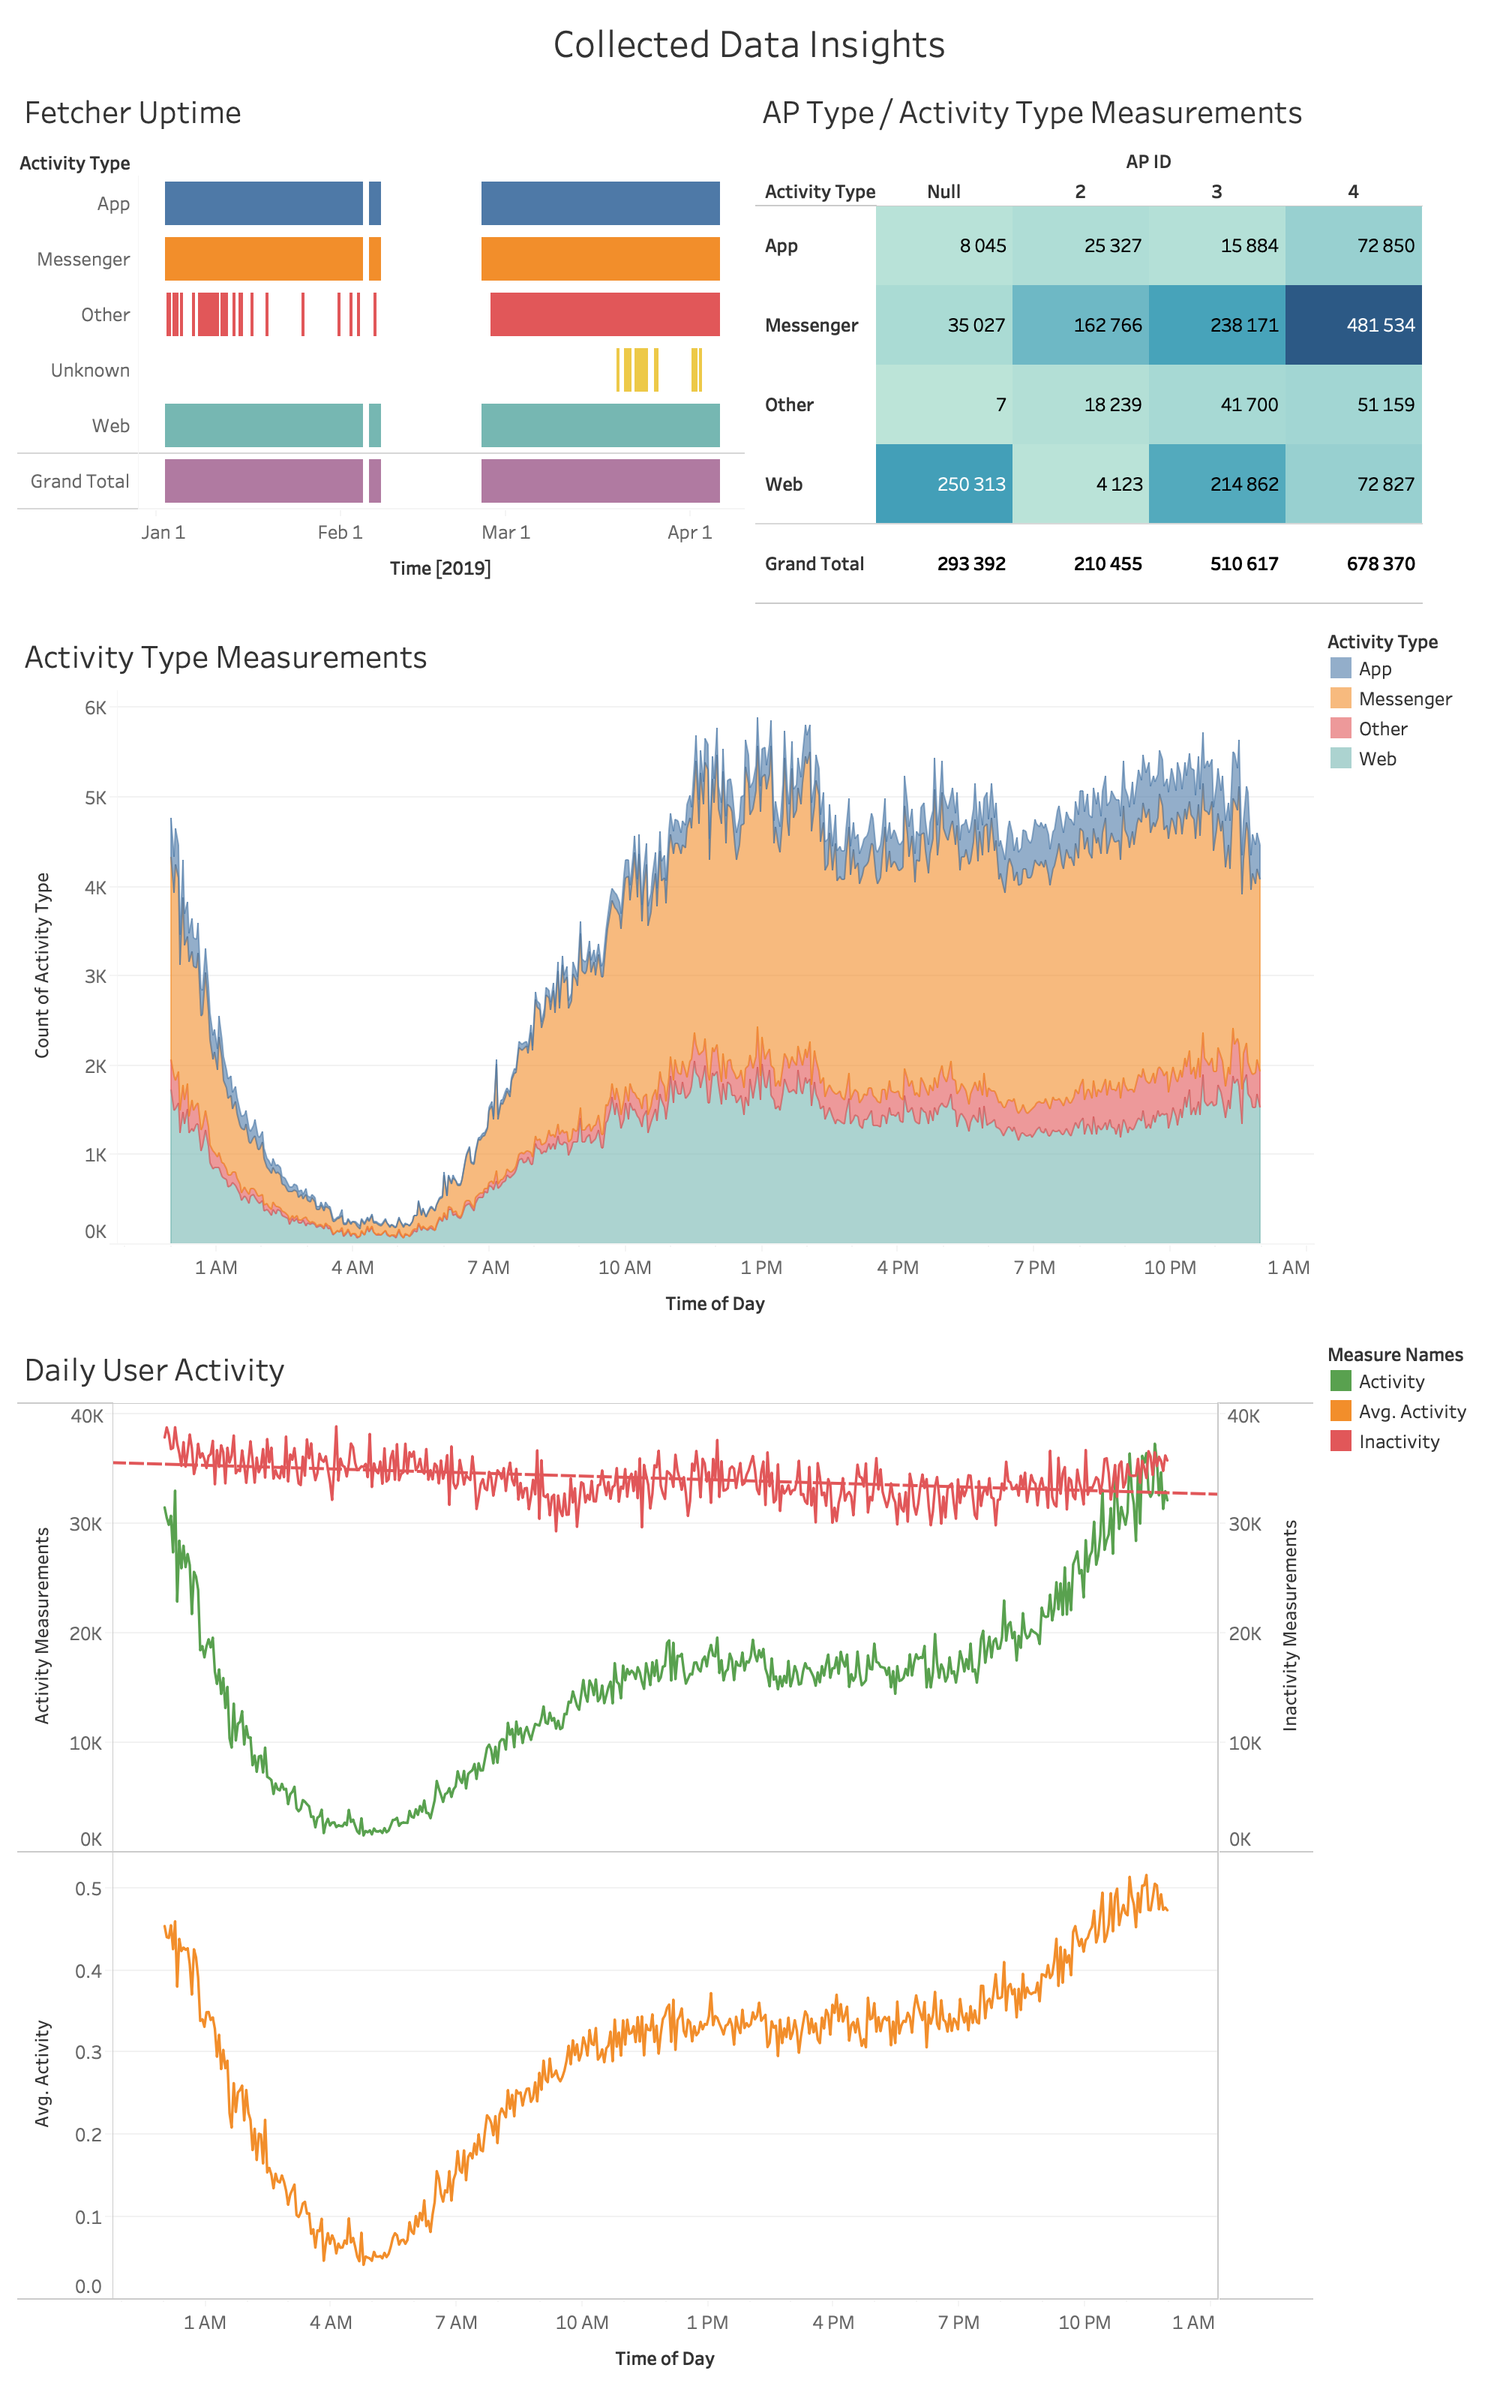
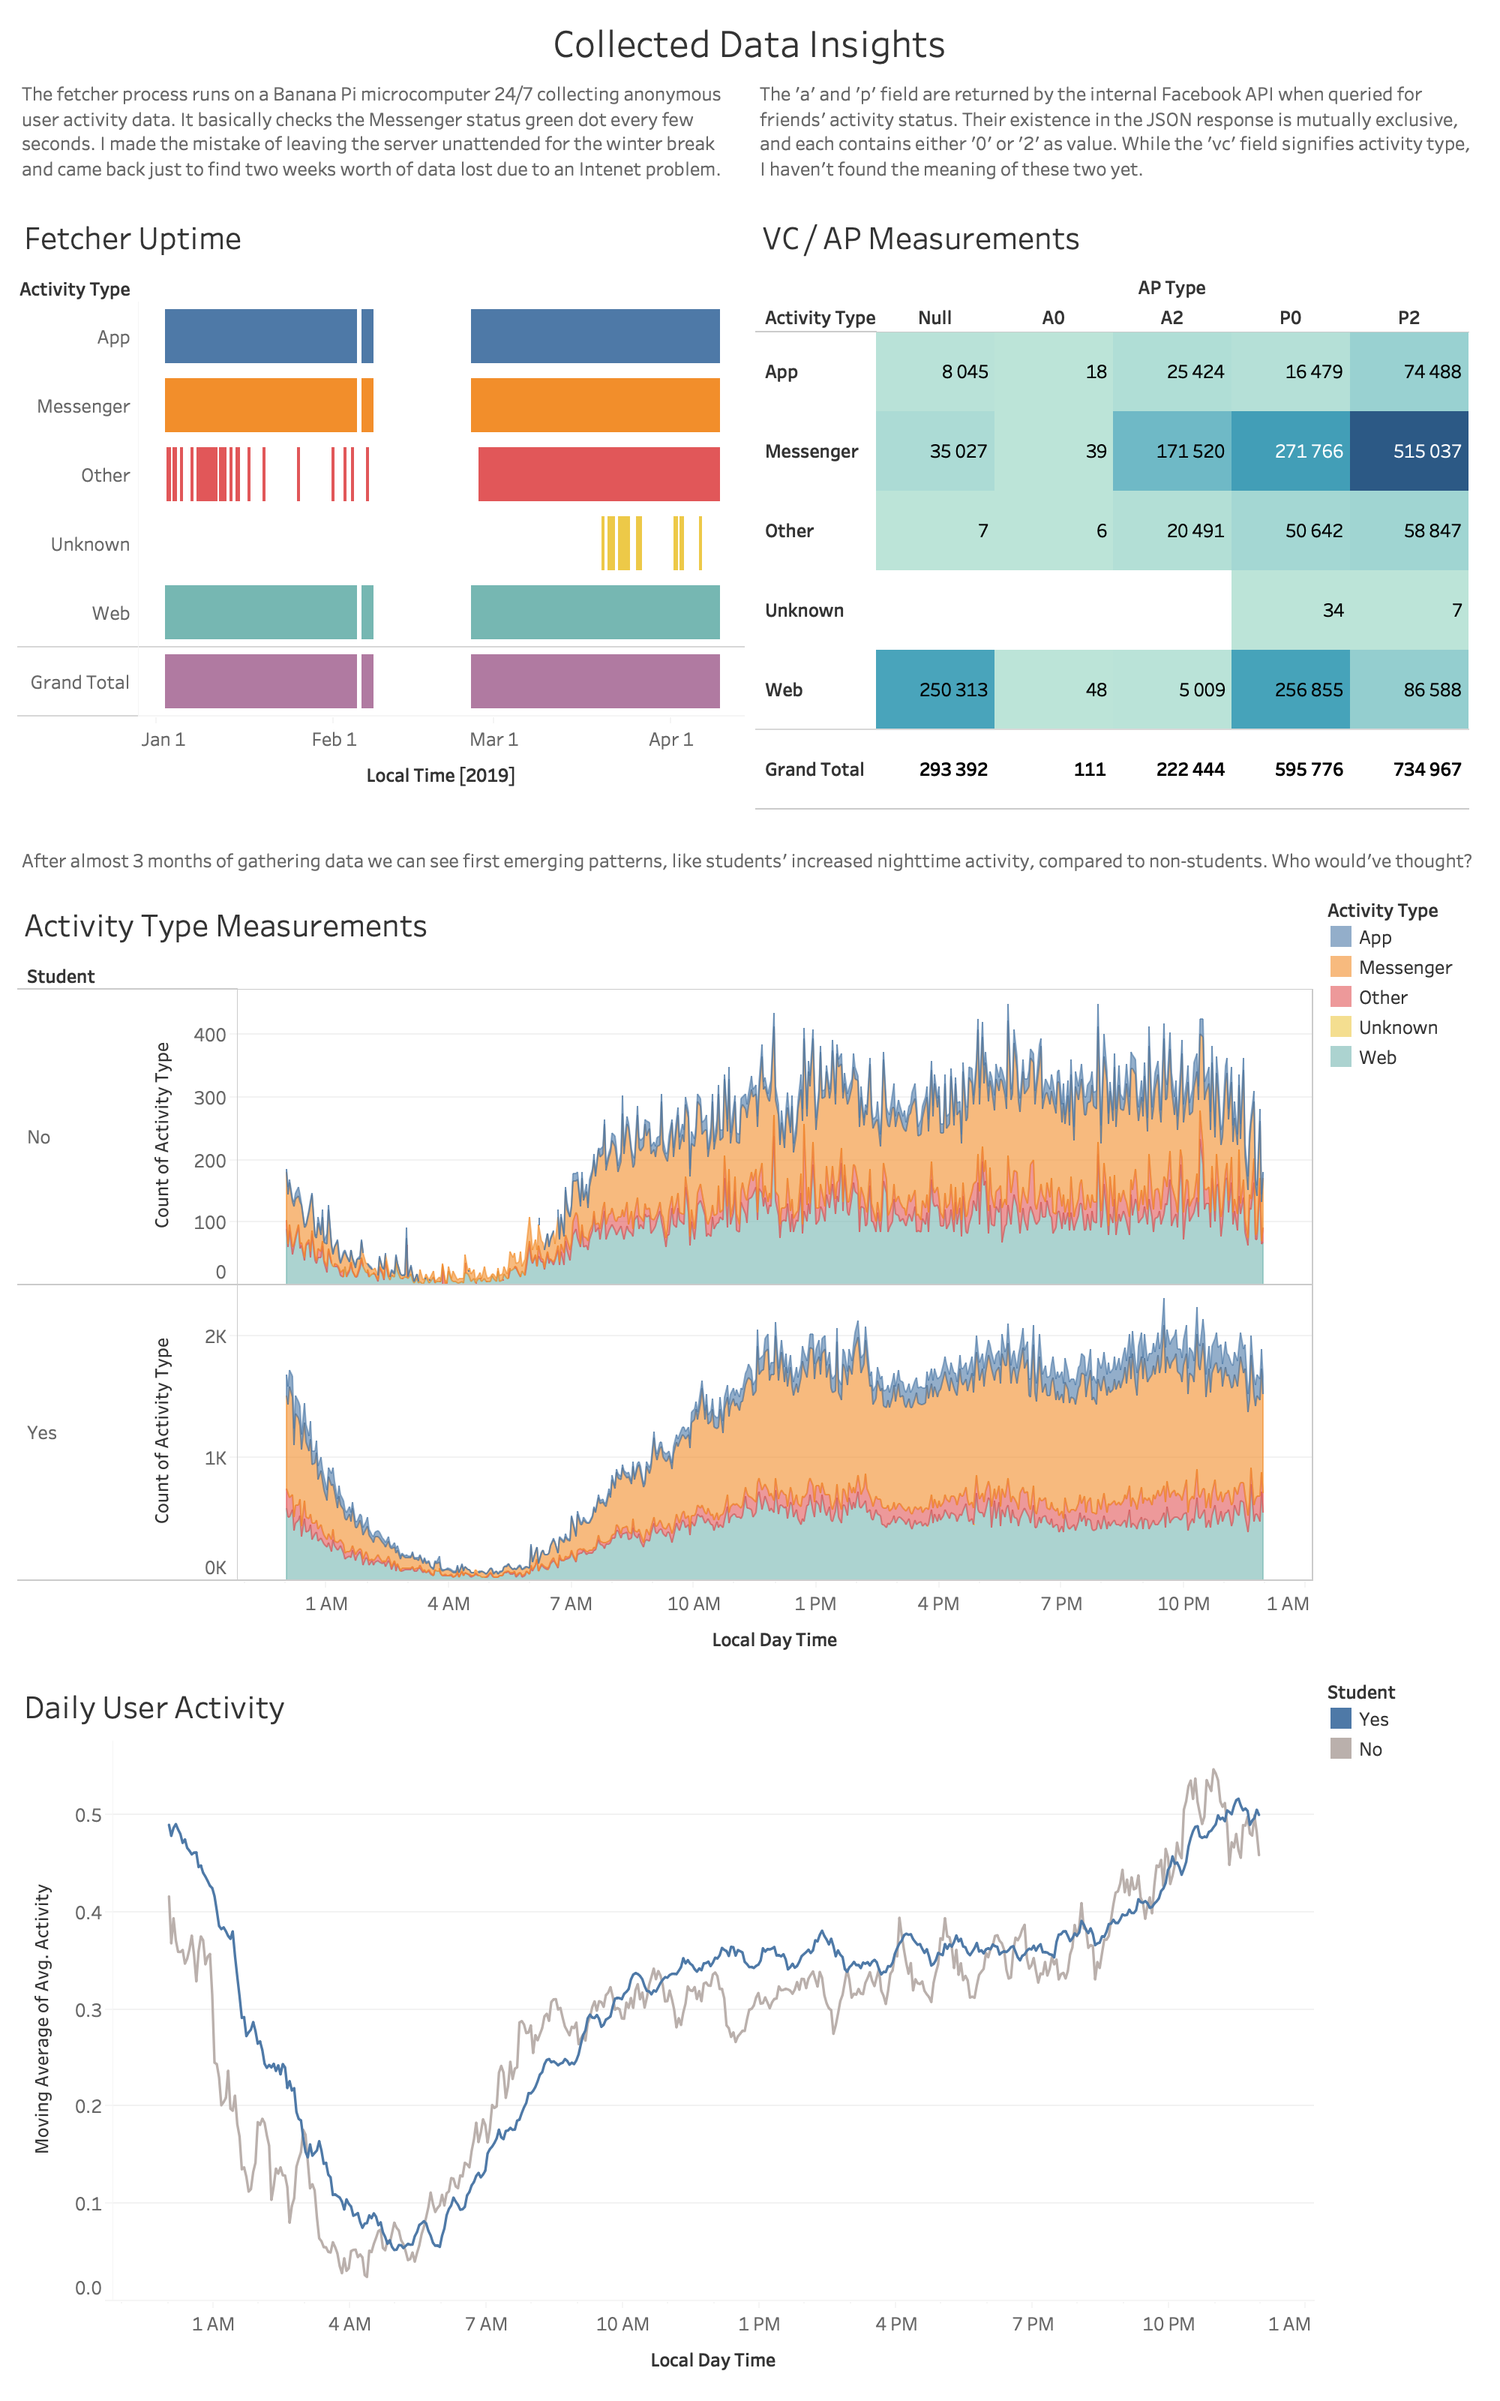
Updated insights, added student column to DB

diff --git a/README.md b/README.md
@@ -64,6 +64,6 @@ The "webapp" uses basic authentication that can be enabled by creating an `auth_
 Collected Data Insights
 -----------------------
 
-Using data collected over almost 3 months (01.01.2019 – 05.04.2019 with a fetcher downtime in the middle of february) I was able to perform some basic data analysis. Here are the results:
+Using data collected over almost 3 months (01.2019 – 04.2019 with a fetcher downtime in the middle of february) I was able to perform some basic data analysis. Here are the results:
 
 <img alt="Data Visualization" src="./resources/Collected Data Insights.png">
